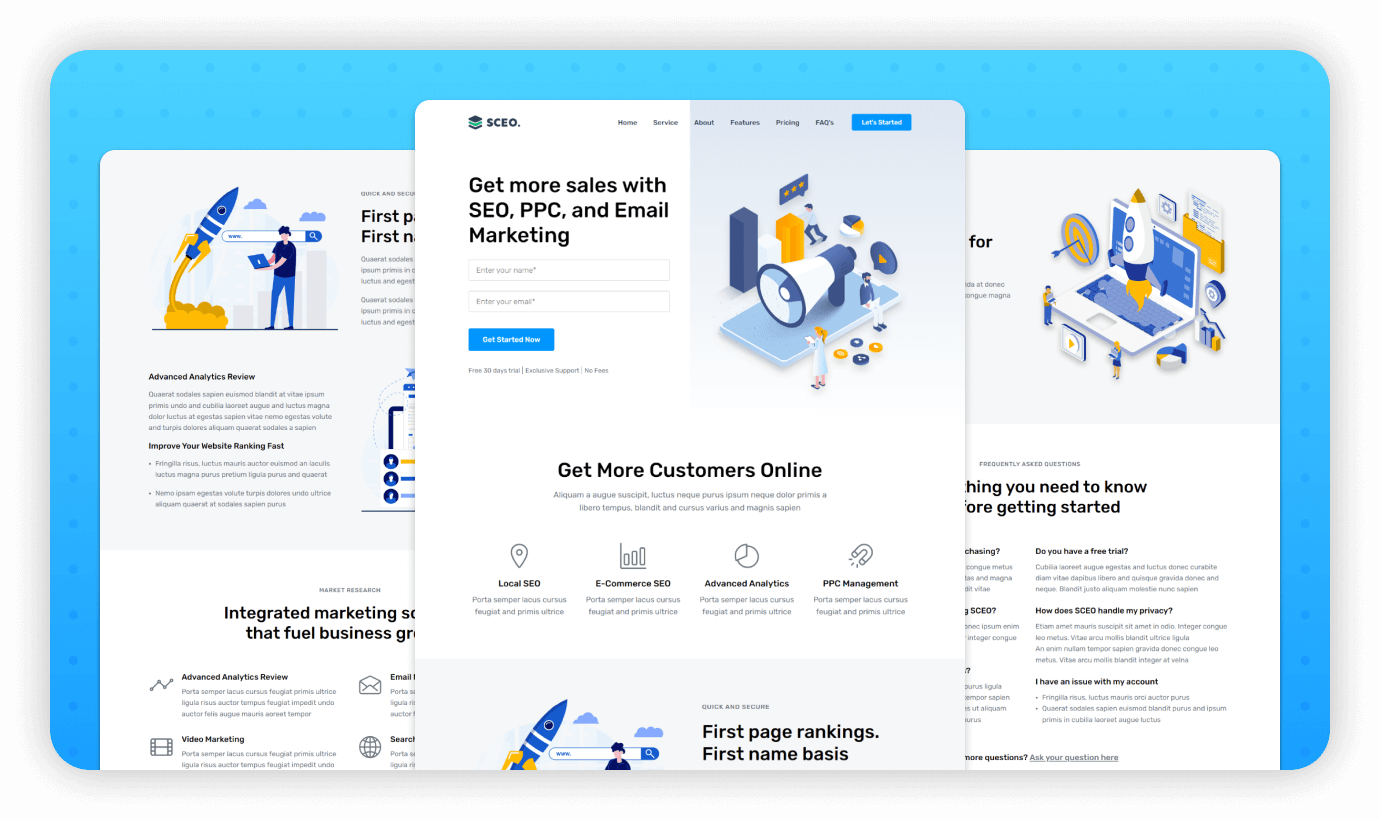
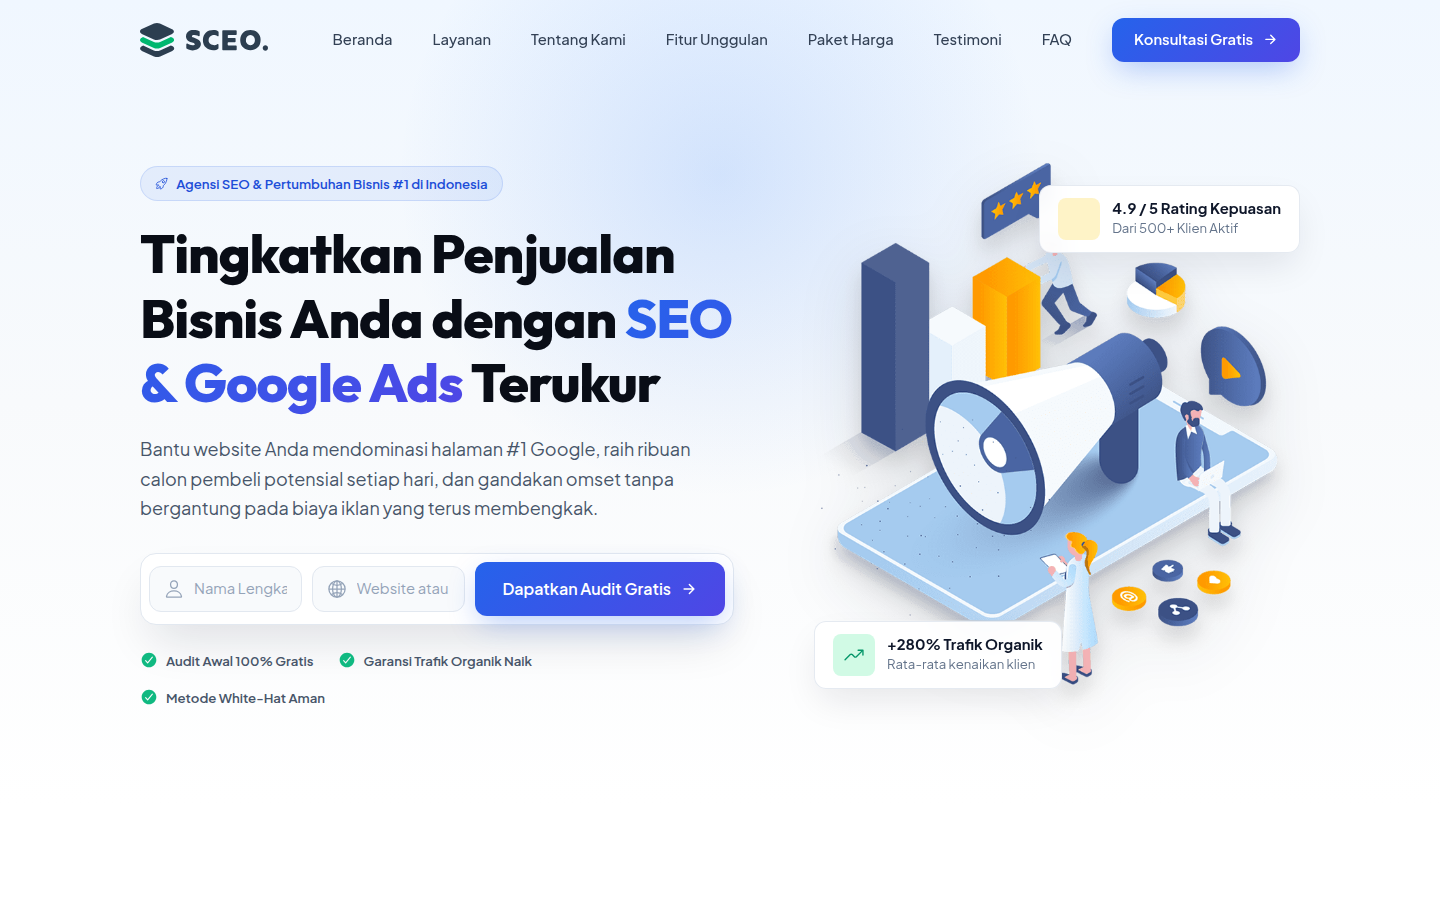
docs: tambahkan screenshot pratinjau desktop dan mobile ke README

diff --git a/README.md b/README.md
@@ -1,14 +1,52 @@
-# 🚀 Website Agensi SEO Indonesia
+<div align="center">
 
-Landing page website agensi SEO dan pemasaran digital modern, elegan, dan berkonversi tinggi. Dibangun dengan HTML5 semantik, CSS3 murni dengan sistem desain modern (*glassmorphism*, gradien dinamis, responsif), dan JavaScript interaktif.
+# 🚀 Website Agensi SEO Indonesia
+### *Modern, Professional & High-Converting Digital Marketing Landing Page*
+
+[![HTML5](https://img.shields.io/badge/HTML5-E34F26?style=for-the-badge&logo=html5&logoColor=white)](https://developer.mozilla.org/en-US/docs/Web/HTML)
+[![CSS3](https://img.shields.io/badge/CSS3-1572B6?style=for-the-badge&logo=css3&logoColor=white)](https://developer.mozilla.org/en-US/docs/Web/CSS)
+[![JavaScript](https://img.shields.io/badge/JavaScript-F7DF1E?style=for-the-badge&logo=javascript&logoColor=black)](https://developer.mozilla.org/en-US/docs/Web/JavaScript)
+[![License: MIT](https://img.shields.io/badge/License-MIT-green.svg?style=for-the-badge)](LICENSE)
+
+<br />
+
+<p align="center">
+  <img src="assets/images/desktop-preview.png" alt="Tampilan Desktop Website Agensi SEO Indonesia" width="100%" style="border-radius: 10px; box-shadow: 0 15px 35px rgba(0,0,0,0.1);" />
+</p>
+
+<p align="center">
+  <em>Desain antarmuka landing page SCEO Agency dengan estetika modern, glassmorphism, dan tipografi Plus Jakarta Sans.</em>
+</p>
+
+</div>
 
 ---
 
-## 📸 Preview Tampilan
+## 📸 Preview Tampilan Perangkat
 
-- **Desktop & Mobile Responsive**
-- **Modern Design System & Tipografi:** Google Fonts *Plus Jakarta Sans* & *Outfit*
-- **Komponen Interaktif:** FAQ Accordion, Sticky Navbar Glassmorphism, Floating Badges, Form Audit Interaktif, Direct WhatsApp CTA
+<table>
+  <tr>
+    <td width="70%" align="center">
+      <strong>💻 Tampilan Desktop (Full Responsive)</strong><br><br>
+      <img src="assets/images/desktop-preview.png" alt="Desktop Screenshot" width="100%" />
+    </td>
+    <td width="30%" align="center">
+      <strong>📱 Tampilan Mobile</strong><br><br>
+      <img src="assets/images/mobile-preview.png" alt="Mobile Screenshot" width="100%" />
+    </td>
+  </tr>
+</table>
+
+---
+
+## 📖 Tentang Proyek
+
+**Website Agensi SEO Indonesia** adalah landing page profesional dan responsif yang dirancang khusus untuk agensi SEO, konsultan periklanan digital (PPC), dan bisnis pemasaran online di Indonesia.
+
+Situs ini telah dioptimalkan secara menyeluruh dengan:
+- **Bahasa Indonesia Baku & Persuasif:** Menggantikan teks lorem ipsum dengan *copywriting* penawaran nilai riil (*value proposition*), bukti sosial, dan ajakan bertindak (*call-to-action*).
+- **Desain UI/UX Kelas Atas:** Memadukan tipografi modern (*Plus Jakarta Sans* & *Outfit*), palet warna *royal blue* dan *emerald green*, efek *ambient glow*, serta *glassmorphism* halus.
+- **Interaktivitas Tanpa Beban:** FAQ interaktif bergaya accordion, formulir audit dengan umpan balik instan, navigasi mobile yang mulus, dan *floating badge* animasi.
 
 ---
 
@@ -21,10 +59,10 @@ Landing page website agensi SEO dan pemasaran digital modern, elegan, dan berkon
 2. **Hero Section Berkonversi Tinggi:**
    - *Headline* persuasif berbasis *data-driven digital marketing*.
    - Formulir audit gratis dengan umpan balik interaktif langsung.
-   - *Floating badge* animasi dengan metrik pertumbuhan organik.
+   - *Floating badge* animasi dengan metrik pertumbuhan organik (+280% Trafik & 4.9/5 Rating).
 
 3. **Bar Mitra Kepercayaan (Social Proof):**
-   - Menampilkan logo brand dan perusahaan terkemuka di Indonesia.
+   - Menampilkan logo brand dan perusahaan teknologi terkemuka di Indonesia.
 
 4. **Layanan Unggulan (Services):**
    - SEO Lokal & Google Maps
@@ -40,17 +78,17 @@ Landing page website agensi SEO dan pemasaran digital modern, elegan, dan berkon
    - 6 kapabilitas pemasaran digital lengkap dengan kartu bergaya modern dan efek hover interaktif.
 
 7. **Tabel Paket Harga Investasi (Pricing):**
-   - 3 tingkatan paket transparan: **Starter UMKM**, **Growth Bisnis (Paling Populer)**, dan **Enterprise**.
+   - 3 tingkatan paket transparan: **Starter UMKM (Rp 2,5jt/bln)**, **Growth Bisnis [Paling Populer] (Rp 5,5jt/bln)**, dan **Enterprise (Rp 12jt/bln)**.
    - Dilengkapi checklist fitur komprehensif dalam mata uang Rupiah.
 
-8. **Testimoni Klien:**
-   - Ulasan autentik dengan rating bintang 5, nama klien, posisi, dan foto avatar.
+8. **Testimoni Klien Autentik:**
+   - Ulasan dengan rating bintang 5, nama pemilik bisnis, posisi, dan foto avatar.
 
 9. **FAQ Accordion Interaktif:**
    - Pertanyaan dan jawaban seputar SEO yang dapat dibuka-tutup dengan transisi rotasi panah yang mulus.
 
 10. **CTA Banner & Footer Komprehensif:**
-    - Tombol aksi ganda: Klaim Audit dan Konsultasi via WhatsApp.
+    - Tombol aksi ganda: Klaim Audit dan Konsultasi Cepat via WhatsApp.
     - Footer multi-kolom dengan informasi kontak lengkap di Jakarta Selatan, navigasi cepat, dan tautan media sosial.
 
 ---
@@ -60,21 +98,25 @@ Landing page website agensi SEO dan pemasaran digital modern, elegan, dan berkon
 ```text
 ├── assets/
 │   ├── css/
-│   │   └── style.css       # Sistem desain modern, variabel CSS, dan media queries
+│   │   └── style.css          # Sistem desain modern, variabel CSS, dan responsivitas
 │   ├── js/
-│   │   └── script.js      # Interaktivitas navbar, accordion, sticky header, form feedback
-│   └── images/            # Ilustrasi banner, logo SVG, dan aset grafis
-├── favicon.svg            # Favicon resmi
-├── index.html             # Halaman utama landing page berbahasa Indonesia
-├── LICENSE                # Lisensi proyek
-└── README.md              # Dokumentasi proyek
+│   │   └── script.js         # Interaktivitas navbar, accordion, sticky header, form feedback
+│   └── images/               # Ilustrasi banner, mockup screenshot, dan aset grafis
+│       ├── desktop-preview.png
+│       ├── mobile-preview.png
+│       ├── hero-banner.png
+│       └── logo.svg
+├── favicon.svg               # Favicon resmi
+├── index.html                # Halaman utama landing page berbahasa Indonesia
+├── LICENSE                   # Lisensi MIT
+└── README.md                 # Dokumentasi proyek
 ```
 
 ---
 
 ## 🚀 Cara Menjalankan Secara Lokal
 
-Anda tidak memerlukan dependensi atau build tools khusus:
+Anda tidak memerlukan dependensi eksternal atau build tools (seperti Node/Webpack):
 
 1. **Clone repositori ini:**
    ```bash
@@ -87,13 +129,13 @@ Anda tidak memerlukan dependensi atau build tools khusus:
    ```
 
 3. **Jalankan:**
-   - Cukup buka file `index.html` langsung di browser Anda, **atau**
-   - Gunakan Live Server di VS Code, **atau**
-   - Jalankan local server sederhana via Python:
+   - Buka file `index.html` langsung di browser Anda, **atau**
+   - Gunakan ekstensi *Live Server* di VS Code, **atau**
+   - Jalankan local web server via Python:
      ```bash
      python3 -m http.server 8000
      ```
-     Lalu akses di browser: `http://localhost:8000`
+     Lalu buka di browser: `http://localhost:8000`
 
 ---
 
@@ -109,4 +151,4 @@ Anda tidak memerlukan dependensi atau build tools khusus:
 
 ## 📄 Lisensi
 
-Didistribusikan di bawah lisensi MIT / open-source. Silakan gunakan dan sesuaikan untuk kebutuhan bisnis atau portofolio Anda.
+Didistribusikan di bawah lisensi MIT. Silakan gunakan dan kembangkan untuk proyek bisnis atau portofolio Anda.
